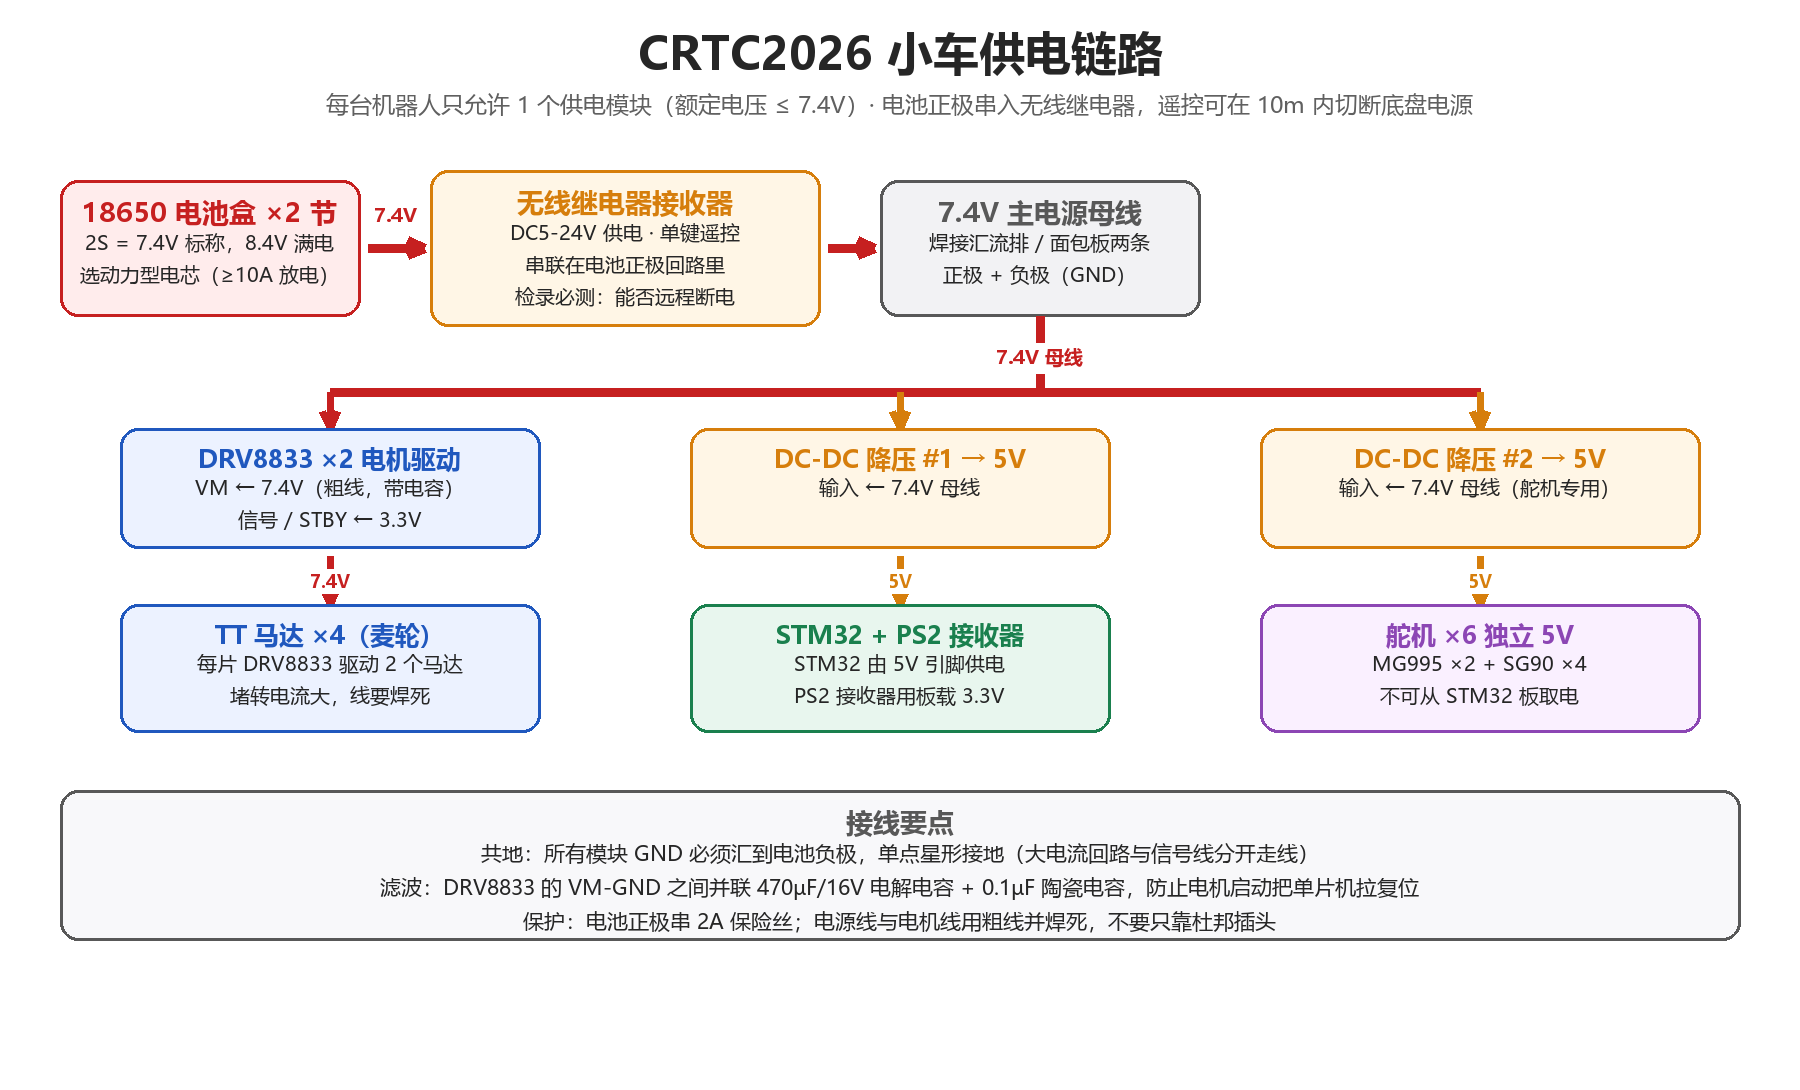
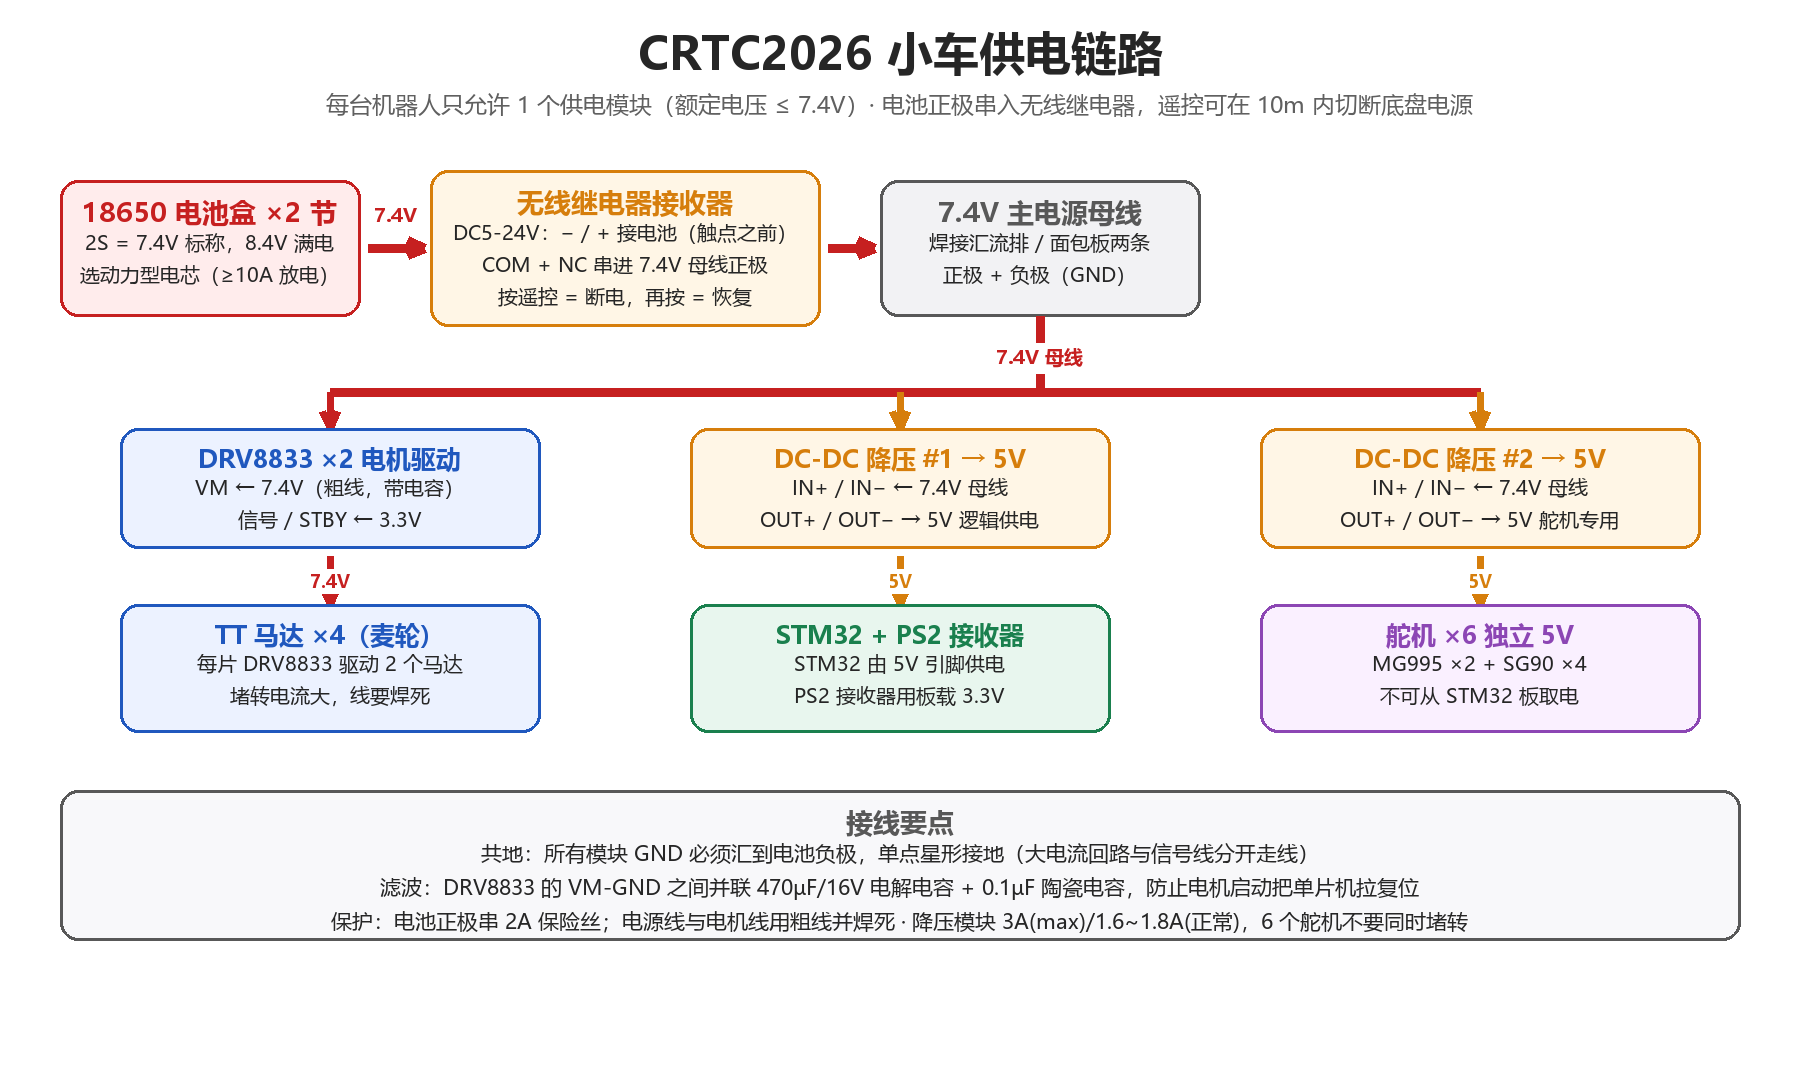
docs: 补充实物接口识别（继电器端子、降压模块、主控）与接线标注图

diff --git a/tools/make_wiring_diagrams.py b/tools/make_wiring_diagrams.py
@@ -83,7 +83,7 @@ def build_power():
     label(d, 396, 214, "7.4V", RED, 19)
 
     box(d, 430, 170, 390, 156, "无线继电器接收器",
-        ["DC5-24V 供电 · 单键遥控", "串联在电池正极回路里", "检录必测：能否远程断电"],
+        ["DC5-24V：− / + 接电池（触点之前）", "COM + NC 串进 7.4V 母线正极", "按遥控 = 断电，再按 = 恢复"],
         fill=(255, 246, 230), outline=ORG, ts=27, bs=20)
     arrow(d, (828, 248), (874, 248), RED, width=9)
 
@@ -107,7 +107,7 @@ def build_power():
         fill=(236, 242, 255), outline=BLU, ts=25, bs=20)
 
     box(d, 690, 428, 420, 120, "DC-DC 降压 #1 → 5V",
-        ["输入 ← 7.4V 母线"],
+        ["IN+ / IN− ← 7.4V 母线", "OUT+ / OUT− → 5V 逻辑供电"],
         fill=(255, 246, 230), outline=ORG, ts=25, bs=20)
     arrow(d, (900, 556), (900, 604), ORG, width=7)
     label(d, 900, 580, "5V", ORG, 18)
@@ -116,7 +116,7 @@ def build_power():
         fill=(232, 246, 238), outline=GRN, ts=25, bs=20)
 
     box(d, 1260, 428, 440, 120, "DC-DC 降压 #2 → 5V",
-        ["输入 ← 7.4V 母线（舵机专用）"],
+        ["IN+ / IN− ← 7.4V 母线", "OUT+ / OUT− → 5V 舵机专用"],
         fill=(255, 246, 230), outline=ORG, ts=25, bs=20)
     arrow(d, (1480, 556), (1480, 604), ORG, width=7)
     label(d, 1480, 580, "5V", ORG, 18)
@@ -127,7 +127,7 @@ def build_power():
     box(d, 60, 790, 1680, 150, "接线要点",
         ["共地：所有模块 GND 必须汇到电池负极，单点星形接地（大电流回路与信号线分开走线）",
          "滤波：DRV8833 的 VM-GND 之间并联 470µF/16V 电解电容 + 0.1µF 陶瓷电容，防止电机启动把单片机拉复位",
-         "保护：电池正极串 2A 保险丝；电源线与电机线用粗线并焊死，不要只靠杜邦插头"],
+         "保护：电池正极串 2A 保险丝；电源线与电机线用粗线并焊死 · 降压模块 3A(max)/1.6~1.8A(正常)，6 个舵机不要同时堵转"],
         fill=(248, 248, 250), outline=GRY, ts=27, bs=21, lh=34)
 
     img.save(os.path.join(OUT_DIR, "wiring_power.png"))

diff --git a/docs/01-电气接线.md b/docs/01-电气接线.md
@@ -42,6 +42,39 @@
 - **共地**：所有模块 GND 汇到电池负极，采用单点星形接地，大电流回路与信号线分开走线。
 - 电池优先选用动力型电芯（放电能力 ≥10A），普通低倍率电芯带 4 电机堵转时压降明显。
 
+### 实物接口识别（无线继电器 / 降压模块 / 主控）
+
+#### 无线继电器接收器（5 个绿色端子）
+
+端子从上到下依次是：**① −（电源负极）、② +（电源正极）、③ NO（常开）、④ COM（公共端）、⑤ NC（常闭）**。
+
+![无线继电器接线标注](assets/relay_wiring.png)
+
+本方案接法（用 NC，即“平时通路、按遥控断电”）：
+
+| 端子 | 接到 |
+| --- | --- |
+| ① − | 电池负极 |
+| ② + | 电池正极 |
+| ④ COM | 电池正极（与 ② 并联） |
+| ⑤ NC | 7.4V 母线正极（电流从 NC 流出） |
+| ③ NO | 本方案不接 |
+
+选择 NC 的理由：模块自身的电取自触点之前，遥控断电后仍能再按一下恢复；NC 为常闭，上电即通电，遥控按一下 = 断电、再按 = 恢复，且线圈平时不耗电。若希望“失败即断电”，可改用 NO，代价是每局开始都要先按一次遥控通电。
+
+#### DC-DC 降压模块（MINI 5-30V 输入 / 3A）
+
+- 背面丝印为 **IN+ / IN− / OUT+ / OUT−**，板上箭头由 IN 指向 OUT；输入端接 7.4V 母线，输出端为 5V。丝印看不清时用万用表通断档确认 IN− 与 OUT− 是否相通（共地）。
+- 参数：输入 5~30V（须高于输出电压）、输出 5V、输出电流 3A（上限）、正常 1.6~1.8A、效率 96%、无使能脚。
+- 校验方法：先只接输入、输出空载，用万用表直流电压档量输出焊盘是否为 5V；若为可调版本且不是 5V，用小螺丝刀调节板上电位器。
+- **电流余量**：逻辑侧（主控 + PS2 接收器 + 驱动板逻辑）约 0.1A，余量充足；6 个舵机同时堵转可达数安培，远超本模块能力。因此不要让 6 个舵机同时发力，重载机构（MG995）建议单独配一路 5V 3A 以上的降压模块（增购件，记入成本表）。
+
+#### STM32F103C8T6 核心板（蓝板）
+
+- 两侧排针都有 `5V`、`GND`、`3.3V`；短边有一排 4 针 SWD 调试口（`3.3V / SWDIO / SWCLK / GND`），接 ST-Link V2。
+- 供电：`5V` 引脚 ← 降压 #1 的 `OUT+`，`GND` ← `OUT−`；`3.3V` 由板上 LDO 输出，供 PS2 接收器与驱动板 STBY。
+- `BOOT0` / `BOOT1` 跳线保持默认（都跳到 0），比赛过程中不要改动。
+
 <!-- TODO 待补充：实际焊接照片、母线实测电压、舵机堵转时的电压跌落测量数据 -->
 
 ## 电机驱动接线（DRV 系列 ×2）
